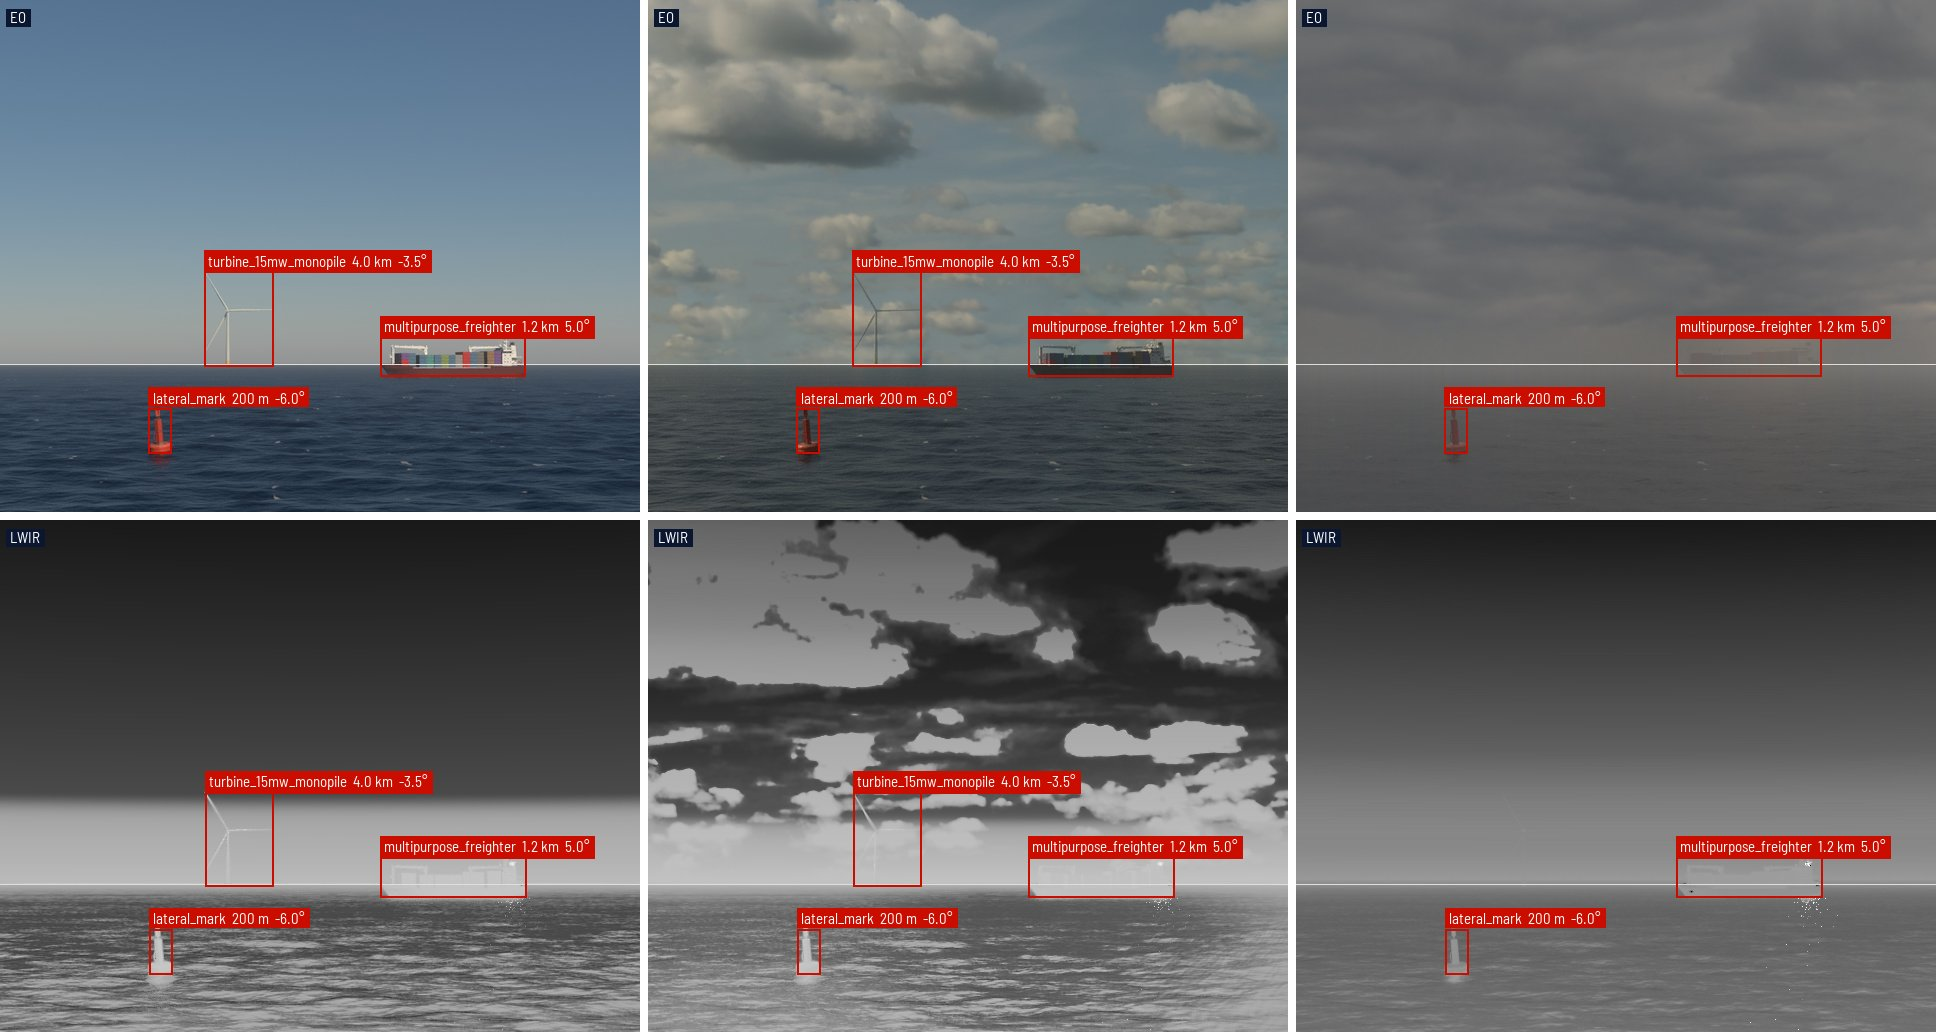
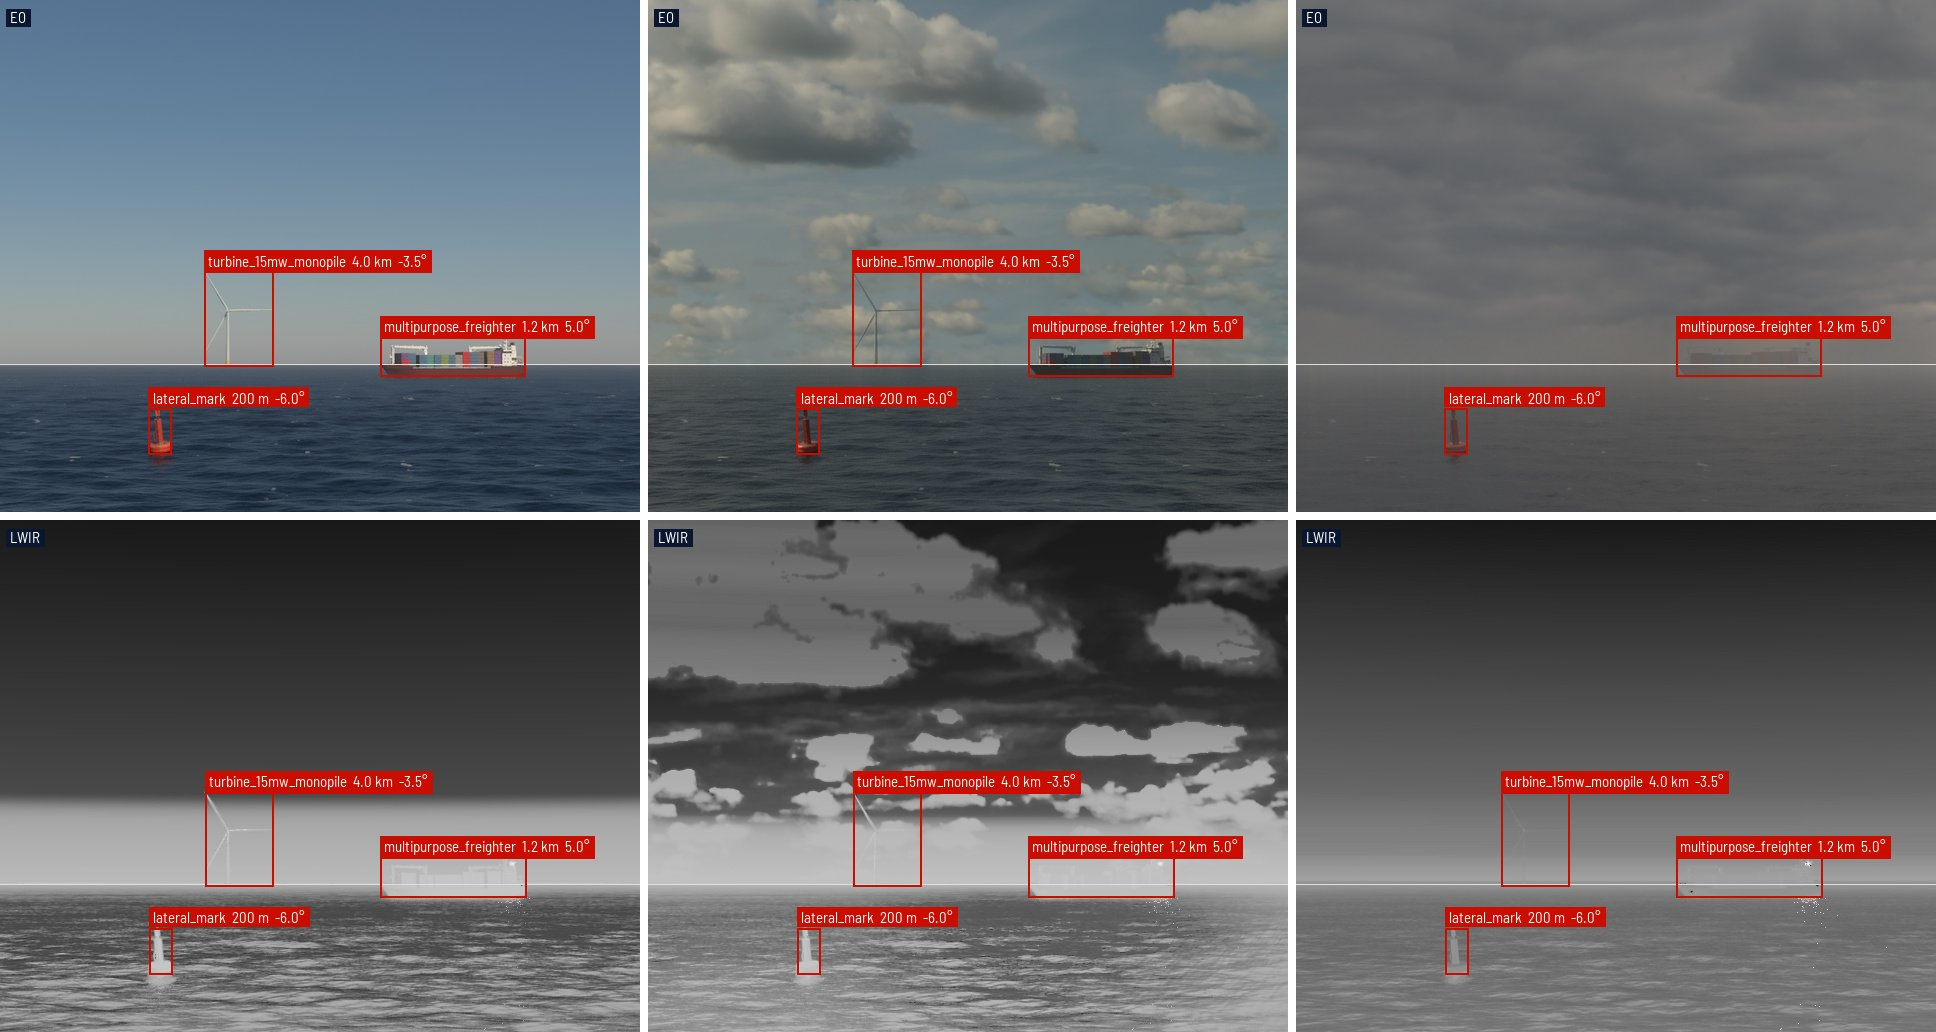
fix: read visibility_km as the meteorological optical range (5%) (#412)
* fix: read visibility_km as the meteorological optical range (5%)

visibility_km is now what a weather report gives, the WMO's MOR: ln(20) / V,
not Koschmieder's 2%. LOWTRAN's tables are keyed by its 2% VIS, so their
visibility axis is converted to MOR on load and both bands see the same air.
The default becomes 32 km, the same air as before; the autonomics dataset's
visibility keeps its hulls 3.5 to 10 NM off.

Closes #403

* docs: re-render the hero and the primer's haze figure at MOR visibility

* fix: extend LOWTRAN's fog to the WMO's, convert drawn visibilities to MOR

The path table gains a fog column at FOG_KM, the thinnest fog's drops scaled
linearly in 1/VIS as LOWTRAN scales them, so fog at 1 km MOR is pure fog.
randomized.toml and the autonomics dataset draw the same air as before.
Mist tests sit mid-mist, the edge probes follow HAZE_KM, and the fog values
are pinned. docs/visibility.png is re-rendered.

* docs: tighten the visibility prose

---------

diff --git a/seascape/physics/lwir.py b/seascape/physics/lwir.py
@@ -67,6 +67,13 @@ _HAZE_CSV = Path(__file__).parent / "data" / "lowtran_haze.csv"
 _CLOUD_CSV = Path(__file__).parent / "data" / "lowtran_cloud.csv"
 _CIRRUS_CSV = Path(__file__).parent / "data" / "lowtran_cirrus.csv"
 
+# LOWTRAN's VIS keeps 2% contrast, 3.912 / extinction at 0.55 um (lowtran7.f, MARINE);
+# the meteorological optical range keeps 5% (WMO No. 8, 2018).
+MOR_PER_VIS = math.log(20) / math.log(50)
+
+# WMO's fog: a visibility under 1 km (WMO No. 8, 2018).
+FOG_KM = 1.0
+
 
 BAND_M = (8.0e-6, 14.0e-6)
 
@@ -578,7 +585,14 @@ def _depth_table(csv: Path) -> dict[str, tuple[FloatArray, FloatArray, FloatArra
     columns = header(csv)[1:]
     # "vis_2km" is maritime haze and "fog_1km" advection fog, on one axis.
     km = [c.partition("_")[2].removesuffix("km") for c in columns]
-    inverse = np.array([1 / float(k) if k else 0.0 for k in km])  # "none" has no km
+    mor_km = [float(k) * MOR_PER_VIS if k else math.inf for k in km]  # "none" has no km
+    inverse = 1 / np.array(mor_km)
+    fogs = [i for i, c in enumerate(columns) if c.startswith("fog_")]
+    if fogs:
+        # LOWTRAN scales fog's extinction linearly in 1 / VIS (AERPRF), so the thinnest
+        # fog's excess over clear air extends to the WMO's fog.
+        thinnest = min(fogs, key=lambda i: inverse[i])
+        inverse = np.append(inverse, 1 / FOG_KM)
     order = np.argsort(inverse)
     names = np.loadtxt(csv, delimiter=",", comments="#", usecols=0, dtype=str)
     raw = np.loadtxt(csv, delimiter=",", comments="#", usecols=range(1, 2 + len(km)))
@@ -586,8 +600,12 @@ def _depth_table(csv: Path) -> dict[str, tuple[FloatArray, FloatArray, FloatArra
     for name in np.unique(names):
         rows = raw[names == name]
         # An opaque cell is as deep as a float goes.
-        passed = np.maximum(rows[:, 1:][:, order], np.finfo(np.float64).tiny)
-        depth = -np.log(passed)
+        depth = -np.log(np.maximum(rows[:, 1:], np.finfo(np.float64).tiny))
+        if fogs:
+            clear = depth[:, columns.index("none")]
+            drops = (depth[:, thinnest] - clear) * inverse[-1] / inverse[thinnest]
+            depth = np.column_stack([depth, clear + drops])
+        depth = depth[:, order]
         rows.setflags(write=False)
         depth.setflags(write=False)
         tables[str(name)] = (rows[:, 0], inverse[order], depth)

diff --git a/tests/test_lwir.py b/tests/test_lwir.py
@@ -6,7 +6,7 @@ from typing import get_args
 import numpy as np
 import pytest
 
-from seascape.physics import atmosphere, lwir
+from seascape.physics import aerosol, atmosphere, lwir
 
 # sigma = 2 pi^5 k^4 / (15 h^3 c^2), exactly.
 STEFAN_BOLTZMANN = (
@@ -206,20 +206,25 @@ def test_aerosol_adds_to_water_vapour_which_takes_most_of_the_path() -> None:
     assert clear / typical > 0.8
 
 
-# LOWTRAN 7, north_sea over 501.381 m: maritime aerosol (IHAZE 4) at 2 km, advection
-# fog (IHAZE 8) at 1 and 0.5 km.
+# LOWTRAN 7, north_sea over 501.381 m: maritime aerosol (IHAZE 4) at a VIS of 2 km,
+# advection fog (IHAZE 8) at 1 and 0.5 km.
 HAZE_2KM, FOG_1KM, FOG_500M = 6.648157e-01, 9.606802e-02, 1.140348e-02
 
 
 def test_under_a_kilometre_the_path_is_lowtrans_advection_fog() -> None:
-    depth = [lwir.path_optical_depth(501.381, v) for v in (2.0, 1.0, 0.5)]
+    vis_km = np.array([2.0, 1.0, 0.5])
+    depth = [lwir.path_optical_depth(501.381, v) for v in vis_km * lwir.MOR_PER_VIS]
     assert np.exp(-np.array(depth)) == pytest.approx(
         [HAZE_2KM, FOG_1KM, FOG_500M], rel=1e-6
     )
+    clear = lwir.path_optical_depth(501.381, None)
+    wmo = lwir.path_optical_depth(501.381, aerosol.FOG_KM)
+    assert wmo - clear == pytest.approx((-math.log(FOG_1KM) - clear) * lwir.MOR_PER_VIS)
 
 
 def test_mist_runs_from_haze_to_fog_without_a_step() -> None:
-    edge = [lwir.path_optical_depth(501.381, v) for v in (2.001, 1.999, 1.5, 1.0)]
+    probes = (aerosol.HAZE_KM * 1.001, aerosol.HAZE_KM * 0.999, 1.2, aerosol.FOG_KM)
+    edge = [lwir.path_optical_depth(501.381, v) for v in probes]
     assert edge == sorted(edge)
     assert edge[1] - edge[0] < 0.01 * (edge[-1] - edge[0])
 
@@ -228,8 +233,8 @@ def test_fog_takes_lwir_about_as_fast_as_visible_light_and_haze_does_not() -> No
     clear = lwir.path_optical_depth(500.0, None)
 
     def ratio(visibility_km: float) -> float:
-        """The aerosol's LWIR depth over 500 m against Koschmieder's."""
-        eo = math.log(1 / 0.02) * 0.5 / visibility_km
+        """The aerosol's LWIR depth over 500 m against the visible's."""
+        eo = aerosol.extinction_per_m(visibility_km) * 500.0
         return float(lwir.path_optical_depth(500.0, visibility_km) - clear) / eo
 
     assert 0.8 < ratio(0.5) < 1.25

diff --git a/tests/test_aerosol.py b/tests/test_aerosol.py
@@ -5,8 +5,8 @@ import pytest
 
 from seascape.physics import aerosol, lwir
 
-# Koschmieder's extinction at 0.5 km: 2% contrast over the visibility.
-BETA_500M = math.log(50) / 500.0
+# The extinction at 0.5 km: 5% contrast over the visibility.
+BETA_500M = math.log(20) / 500.0
 
 # lowtran_haze.csv, north_sea at 90 degrees: what 2 km maritime haze passes overhead.
 HAZE_2KM_ZENITH = 0.782024
@@ -30,7 +30,7 @@ def test_fog_glows_at_the_air_along_the_horizon_and_thins_overhead() -> None:
 
 
 def test_haze_overhead_is_lowtran_s() -> None:
-    depth = aerosol.depth(math.pi / 2, 2.0, "north_sea")
+    depth = aerosol.depth(math.pi / 2, aerosol.HAZE_KM, "north_sea")
     assert depth == pytest.approx(-math.log(HAZE_2KM_ZENITH), rel=1e-6)
     assert aerosol.depth(math.pi / 2, 1.5, "north_sea") > depth
     assert aerosol.depth(ELEVATIONS, None) == pytest.approx(0.0)
@@ -73,7 +73,7 @@ def test_thicker_air_covers_more_of_the_sky() -> None:
     covers = [aerosol.cover(v) for v in (None, 42.0, 5.0, 1.5, 0.99, 0.5, 0.2)]
     assert covers == sorted(covers)
     assert covers[0] == 0.0
-    assert covers[-1] > 0.99
+    assert covers[-1] == pytest.approx(0.9872, abs=1e-4)
 
 
 def test_the_heat_balance_takes_the_fog_alone() -> None:
@@ -87,14 +87,17 @@ def test_the_heat_balance_takes_the_fog_alone() -> None:
 def test_a_high_sun_dims_through_the_fog_and_a_low_one_vanishes() -> None:
     overhead = aerosol.sun_transmittance(math.pi / 2, 0.5)
     assert overhead == pytest.approx(math.exp(-BETA_500M * aerosol.DEPTH_M))
-    assert aerosol.sun_transmittance(math.radians(5.0), 0.5) < 1e-6
+    low = math.radians(5.0)
+    assert aerosol.sun_transmittance(low, 0.5) == pytest.approx(
+        math.exp(-BETA_500M * aerosol.DEPTH_M / math.sin(low))
+    )
     assert aerosol.sun_transmittance(-0.1, 0.5) == 0.0
 
 
 def test_fog_passes_more_sunlight_than_its_beam() -> None:
     passed = aerosol.diffuse_transmittance(0.5)
-    # 2 / (2 + 0.15 x 1.565), by hand.
-    assert passed == pytest.approx(0.8950, abs=1e-4)
+    # 2 / (2 + 0.15 x 1.198), by hand.
+    assert passed == pytest.approx(0.9175, abs=1e-4)
     assert passed > aerosol.sun_transmittance(math.pi / 2, 0.5)
 
 

diff --git a/seascape/physics/aerosol.py b/seascape/physics/aerosol.py
@@ -12,11 +12,10 @@ from seascape.physics.atmosphere import ATMOSPHERE, Atmosphere
 
 FloatArray = npt.NDArray[np.float64]
 
-# WMO's fog: a visibility under 1 km (WMO No. 8, 2018).
-FOG_KM = 1.0
+FOG_KM = lwir.FOG_KM
 
-# LOWTRAN 7's shortest maritime haze, HZ2K's 2 km profile (lowtran7.f, AERPRF).
-HAZE_KM = 2.0
+# LOWTRAN 7's shortest maritime haze, HZ2K's 2 km VIS (lowtran7.f, AERPRF), as MOR.
+HAZE_KM = 2.0 * lwir.MOR_PER_VIS
 
 # Typical of water clouds (Kokhanovsky, Earth-Sci. Rev. 64 189, 2004, 3.1.4).
 ASYMMETRY = 0.85
@@ -27,11 +26,11 @@ DEPTH_M = 200.0
 
 
 def extinction_per_m(visibility_km: float | None) -> float:
-    """Koschmieder's law: over `visibility_km` a dark target keeps 2% of its contrast
-    against the horizon sky."""
+    """Koschmieder's law at the meteorological optical range: over `visibility_km` a
+    dark target keeps 5% of its contrast against the horizon sky (WMO No. 8, 2018)."""
     if visibility_km is None:
         return 0.0
-    return math.log(1 / 0.02) / (visibility_km * 1000)
+    return math.log(20) / (visibility_km * 1000)
 
 
 def fog_weight(visibility_km: float | None) -> float:

diff --git a/seascape/config/world.py b/seascape/config/world.py
@@ -135,11 +135,11 @@ class Sea(Model):
         return skin.skin_k(self.t_sea_k, rise, sun_up)
 
 
-# Judgement: 42 km, inside the open ocean's measured spread. OPAC's
+# Judgement: 32 km, inside the open ocean's measured spread. OPAC's
 # maritime aerosols at 550 nm and 80% humidity (Hess, Koepke & Schult, BAMS 79(5) 831,
 # 1998), plus sea-level Rayleigh's 0.012 km^-1 (the MODTRAN 2/3 report, eq. 26): clean,
-# 0.090 km^-1, is 38 km; tropical, 0.043 km^-1, is 71 km.
-VISIBILITY_KM = 42.0
+# 0.090 km^-1, is 29 km; tropical, 0.043 km^-1, is 54 km.
+VISIBILITY_KM = 32.0
 
 
 class Sky(Model):
@@ -175,8 +175,8 @@ class Sky(Model):
     visibility_km: float | None = Field(
         default=VISIBILITY_KM,
         gt=0.0,
-        description="Meteorological range at 550 nm; None is no aerosol. Under "
-        f"{aerosol.FOG_KM:g} km it is fog, in both bands.",
+        description="Meteorological optical range at 550 nm; None is no aerosol. "
+        f"Under {aerosol.FOG_KM:g} km it is fog, in both bands.",
     )
     atmosphere: Atmosphere = Field(
         default=ATMOSPHERE,

diff --git a/tests/test_config.py b/tests/test_config.py
@@ -681,9 +681,9 @@ def test_a_farm_is_of_turbines() -> None:
         Farm(asset="yacht", range_m=900.0, bearing_deg=0.0)
 
 
-def test_over_the_visibility_a_dark_target_keeps_two_percent_contrast() -> None:
+def test_over_the_visibility_a_dark_target_keeps_five_percent_contrast() -> None:
     sky = Sky(visibility_km=23.0)
-    assert math.exp(-sky.extinction_per_m * 23_000) == pytest.approx(0.02)
+    assert math.exp(-sky.extinction_per_m * 23_000) == pytest.approx(0.05)
     assert Sky(visibility_km=None).extinction_per_m == 0.0
 
 
@@ -872,7 +872,7 @@ def optical_depth_ship(bounds: str) -> str:
 
 
 def test_a_range_by_optical_depth_follows_a_drawn_visibility() -> None:
-    """Koschmieder: a ray keeps 2% of its contrast over `visibility_km`."""
+    """A ray keeps 5% of its contrast over `visibility_km`."""
     drawn = "sky.visibility_km = { uniform = [4.0, 42.0] }"
     for seed in range(3):
         scenario = load(

diff --git a/tests/test_render.py b/tests/test_render.py
@@ -466,7 +466,7 @@ def _misted_photo(monkeypatch: pytest.MonkeyPatch, tmp_path: Path) -> dict[str, 
     photo = tmp_path / "white.hdr"
     cv2.imwrite(str(photo), np.ones((32, 64, 3), np.float32))
     monkeypatch.setattr("seascape.blender.sky.download", lambda *_: photo)
-    return {"hdri": "rocky_ridge", "visibility_km": 1.5}
+    return {"hdri": "rocky_ridge", "visibility_km": 1.2}
 
 
 def _heaviest_haze(band: Band) -> None:

diff --git a/tests/test_render_drift.py b/tests/test_render_drift.py
@@ -1323,7 +1323,7 @@ def _photo_with_a_sun(path: Path, photo: skies.Photo) -> None:
     bpy.data.images.remove(image)
 
 
-@pytest.mark.parametrize("visibility_km", [None, 1.5, 0.8])
+@pytest.mark.parametrize("visibility_km", [None, 1.2, 0.8])
 def test_fog_dims_a_photographed_sun_by_its_beam_and_mists_the_rest(
     visibility_km: float | None, tmp_path: Path, monkeypatch: pytest.MonkeyPatch
 ) -> None:

diff --git a/tests/test_scene.py b/tests/test_scene.py
@@ -2255,7 +2255,7 @@ def test_in_fog_the_eo_sky_is_its_horizon_s_grey_and_the_sun_dims() -> None:
 
 
 def test_in_mist_the_eo_sky_is_part_way_to_fog_s_grey() -> None:
-    mist = variant(sky={"visibility_km": 1.5})
+    mist = variant(sky={"visibility_km": 1.2})
     scene.build(mist, "eo")
     tree = bpy.data.worlds["sky"].node_tree
     feeding = upstream(tree.nodes["Background"].inputs["Color"])

diff --git a/seascape/config/draws.py b/seascape/config/draws.py
@@ -111,7 +111,7 @@ class Choice(Model):
 
 class OpticalDepth(Model):
     """An object's `range_m` as optical depth: a ray keeps exp(-depth) of its light,
-    with `sky.visibility_km` taken as Koschmieder's 2%."""
+    with a dark target keeping 5% of its contrast over `sky.visibility_km`."""
 
     optical_depth: tuple[
         Annotated[float, Field(gt=0.0)], Annotated[float, Field(gt=0.0)]

diff --git a/docs/scenarios.md b/docs/scenarios.md
@@ -89,7 +89,7 @@ sun_elevation_deg = { uniform = [2.0, 60.0] }
 hdri = { choice = ["belfast_sunset", "kloofendal_overcast"] }
 ```
 
-An object's `range_m` can instead be `{ optical_depth = [lo, hi] }`, drawn evenly: the haze between it and the camera, so the same hull sits as deep in it at any visibility. A ray keeps exp(-depth) of its light, with `sky.visibility_km` taken as Koschmieder's 2%.
+An object's `range_m` can instead be `{ optical_depth = [lo, hi] }`, drawn evenly: the haze between it and the camera, so the same hull sits as deep in it at any visibility. A ray keeps exp(-depth) of its light, with a dark target keeping 5% of its contrast over `sky.visibility_km`.
 
 A table set over a choice of tables goes into every option, so `--set sky.visibility_km=10` keeps the sky drawn and fixes only its visibility. [`scenarios/randomized.toml`](../scenarios/randomized.toml) is a fuller example.
 
